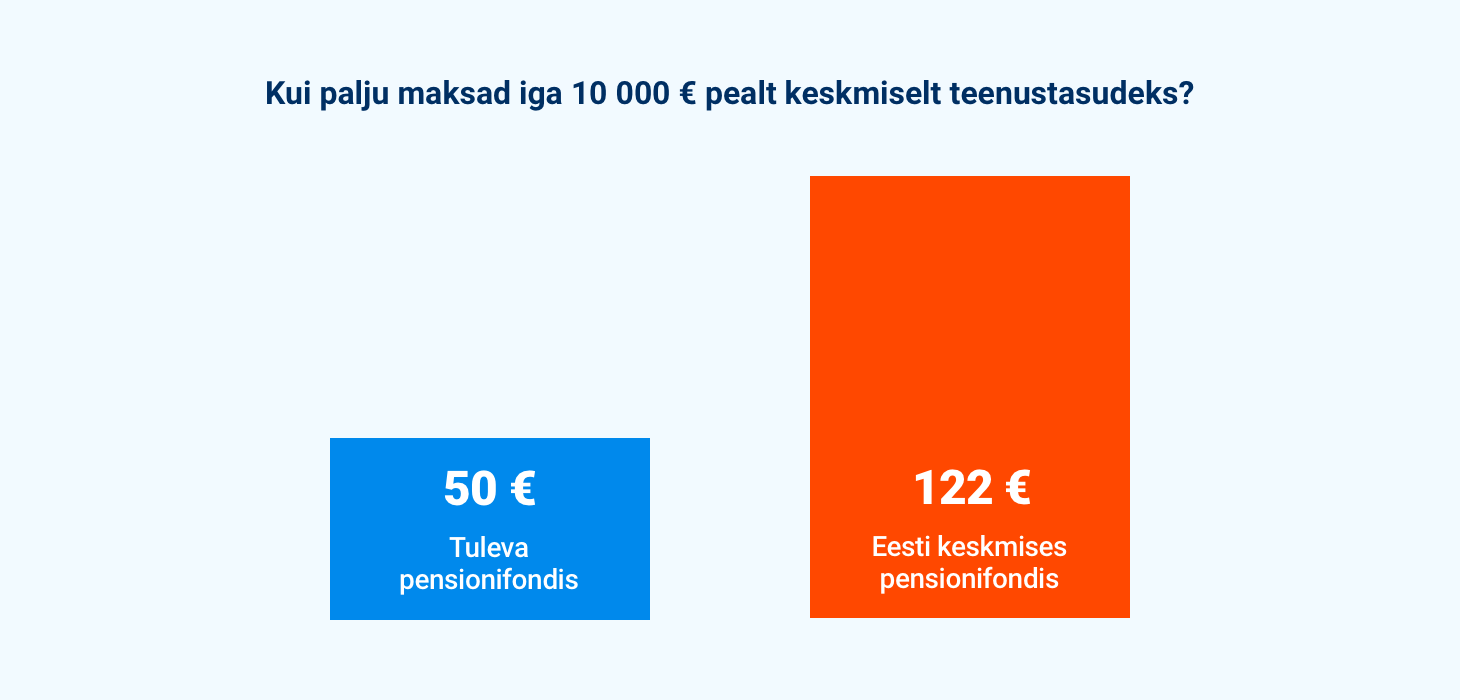
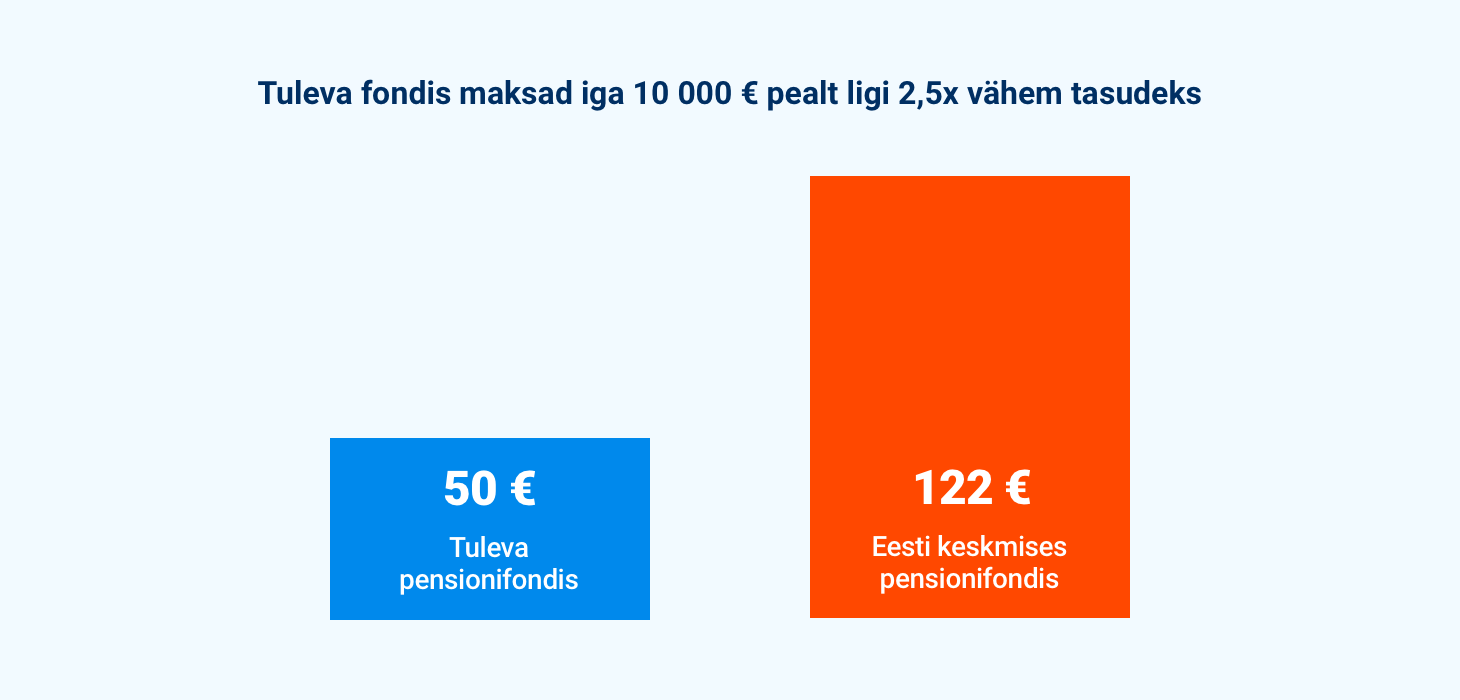
Difference content tweaks

Changed region(s): [[0.1849, 0.12, 0.8322, 0.15]]

diff --git a/src/wp-content/themes/tuleva/templates/difference-content.php b/src/wp-content/themes/tuleva/templates/difference-content.php
@@ -31,17 +31,14 @@
                     <span class="text-highlight text-bold">Kui kasvame, saame tasud veel väiksemaks</span>. </p>
 
                 <img src="<?php echo get_template_directory_uri() ?>/img/fig-principle-fees.png" class="img-fluid" alt="Vaid veerand valitsemistasudest 2016. aastal kulus meie raha eest hoolitsemisele" />
-                <cite class="d-block small text-secondary mt-3 mb-5">Allikas: Eesti fondivalitsejate 2016 aasta aruanded. Tuleva arvutused <a href="https://tuleva.ee/analuusid/fondivalitsejate-aastaaruanded-2016/" target="_blank">siin</a>.</cite>
+                <cite class="d-block small text-secondary mt-3 mb-5">Allikas: Eesti fondivalitsejate 2016. aasta aruanded. Tuleva arvutused <a href="https://tuleva.ee/analuusid/fondivalitsejate-aastaaruanded-2016/" target="_blank">siin</a>.</cite>
 
                 <p>Pangad teevad näo, et kulud pole tegelikult tähtsad. Warren Buffett pole nõus. Andme-nohikud pole ka nõus. Nad on aastate viisi statistikat analüüsinud ja leidnud üht: madalad kulud on kõige tõsisem fondi tootluse ennustaja.</p>
-
-                <img src="<?php echo get_template_directory_uri() ?>/img/fig-principle-fee-comparison.png" class="img-fluid" alt="Kui palju maksad iga 10 000€ pealt keskmiselt teenustasudeks?" />
-                <cite class="d-block small text-secondary mt-3 mb-5">Allikas: Pensionikeskus, Rahandusministeerium. <a href="https://docs.google.com/spreadsheets/d/1fl45EhacB_HLb1yPPsi-jfkwA4Vt8KEi_e-aQ8N3uUo/edit#gid=0" target="_blank">Eesti pensionifondide jooksvate kulude tabel</a></cite>
 
                 <p>Teisisõnu: <span class="text-highlight text-bold">mida madalamad on pensionifondi kulud, seda suurem tõenäosus, et sinu pensionivara kasvab rohkem</span>.</p>
 
                 <img src="<?php echo get_template_directory_uri() ?>/img/fig-principle-success-probability.png" class="img-fluid" alt="Odava tasuga fondid saavad parima tulemuse" />
-                <cite class="d-block small text-secondary mt-3 mb-5">Allikas: <a href="http://news.morningstar.com/articlenet/article.aspx?id=752485" target="_blank">Morning Star analüüs</a>.</cite>
+                <cite class="d-block small text-secondary mt-3 mb-5">Allikas: Maailma suurima fondide analüüsi firma MorningStar <a href="http://news.morningstar.com/articlenet/article.aspx?id=752485" target="_blank">analüüs</a> USA investeerimisfondide 2010-2015 tulemuste põhjal.</cite>
 
                 <h3 class="text-center mb-5">Meie usume nohikuid</h3>
 
@@ -52,9 +49,13 @@
 
                 <p>Meil on teine eesmärk: <span class="text-highlight text-bold">saada igast täna säästetud eurost pensionile jõudmise ajaks maksimaalne kasu. Sest meie omanikud ongi pensionikogujad ise</span>.</p>
 
+
                 <p>See teebki Tuleva pensionifondid eriliseks. Kõik muu on üsna sama.</p>
 
-                <p class="mb-0">Tuleva liikmetega koos saavad pensioni koguda kõik Eesti inimesed. Fondivahetus võtab paar minutit ja ei maksa sulle midagi - hakkad hoopis kohe tasudelt kokku hoidma.</p>
+                <img src="<?php echo get_template_directory_uri() ?>/img/fig-principle-fee-comparison.png" class="img-fluid" alt="Kui palju maksad iga 10 000€ pealt keskmiselt teenustasudeks?" />
+                <cite class="d-block small text-secondary mt-3 mb-5">Allikas: Pensionikeskus, Rahandusministeerium. <a href="https://docs.google.com/spreadsheets/d/1fl45EhacB_HLb1yPPsi-jfkwA4Vt8KEi_e-aQ8N3uUo/edit#gid=0" target="_blank">Eesti pensionifondide jooksvate kulude tabel</a></cite>
+
+                <p class="mb-0">Tuleva liikmetega koos saavad pensioni koguda kõik Eesti inimesed. <span class="text-highlight text-bold">Fondivahetus võtab paar minutit ja ei maksa sulle midagi</span> - hakkad hoopis kohe tasudelt kokku hoidma.</p>
             </div>
         </div>
 
